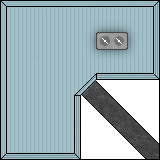
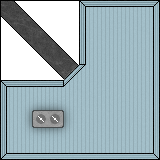
Rewrote building generation, minor tweaks
Determined that World.getEntities does in fact work, so I am trying a new method of generating buildings, and made much progress. Rotated a couple building textures, and cleaned up entity rendering code.

diff --git a/src/main/java/com/bitbucket/computerology/world/towns/Town.java b/src/main/java/com/bitbucket/computerology/world/towns/Town.java
@@ -13,6 +13,7 @@ public class Town {
     
     int population, x, y;
     ArrayList<Building> buildings;
+    
     int[][] distribution;
     
     
@@ -21,6 +22,10 @@ public class Town {
         this.x = sector_x;
         this.y = sector_y;
     }
+    
+    public static int blockSizeChunks() { return 16; }
+    
+    public int[][] buildingDistribution() { return distribution; }
     
     public void update() {}
     
@@ -48,9 +53,9 @@ public class Town {
         }
         
         //divide the sector with roads, creating city blocks to place buildings in
-        for (int i = 1; i <= 3; i++) {
-            this.placeRoadSegment(i*16, 2, Sector.sizeChunks()-2, 2);
-            this.placeRoadSegment(2, 1+(i*16), Sector.sizeChunks()-2, 1);
+        for (int i = 1; i < (Sector.sizeChunks()/blockSizeChunks()); i++) {
+            this.placeRoadSegment(i*blockSizeChunks(), 2, Sector.sizeChunks()-2, 2);
+            this.placeRoadSegment(2, 1+(i*blockSizeChunks()), Sector.sizeChunks()-2, 1);
         }
         
         //place the buildings
@@ -66,37 +71,71 @@ public class Town {
      * Places buildings randomly within the city block. UNFINISHED.
      */
     private void randomizeBlock(int bx, int by) {
-        int[] origin = {2 + (16*bx), 2 + (16*by)};
+        System.out.println("Generating buildings for block "+bx+", "+by);
+        //world coords for the block (relative to the sector)
+        int[] b_wc = {Chunk.sizePixels()*((blockSizeChunks()*bx)+2), 
+            Chunk.sizePixels()*((blockSizeChunks()*by)+2)};
         String[] res_names = {"House 1"}, ind_names = {"Factory 1"};
+        String[] names = distribution[b_wc[0]/Chunk.sizePixels()][b_wc[1]/Chunk.sizePixels()] == Building.INDUSTRIAL ? ind_names : res_names; 
         Sector p = getParent();
-        for (int i = 0; i < 16; i++) {
-            int[][] spawns = 
-                {{origin[0]+i, origin[1]}, {origin[0]+14, origin[1]+i}, {origin[0]+i, origin[1]+14}, {origin[0], origin[1]+i}};
-            for (int r = 0; r < 1; r++) {
-                //determine the world coordinates
-                int wx = p.getWorldCoords()[0]+(spawns[r][0]*Chunk.sizePixels());
-                int wy = p.getWorldCoords()[1]+(spawns[r][1]*Chunk.sizePixels());
-                String[] names = res_names;
-                //String[] names = distribution[spawns[r][0]][spawns[r][1]] == Building.INDUSTRIAL ? ind_names : res_names;
-                String name = names[new Random().nextInt(names.length)];
-                Entity e = Entity.create(name);
-                e.setRotation(r*90);
-                
-                if (r == 0) { wx+=e.getWidth()/2; wy+=e.getHeight()/2; }
-                if (r == 1) { wx-=e.getWidth()/2; wy+=e.getHeight()/2; }
-                if (r == 2) { wx+=e.getWidth()/2; wy-=e.getHeight()/2; }
-                if (r == 3) { wx+=e.getWidth()/2; wy+=e.getHeight()/2; }
-                
-                e.setWorldX(wx);
-                e.setWorldY(wy);
-                
-                int[] params = {wx-(e.getWidth()/2), wy-(e.getHeight()/2), e.getWidth(), e.getHeight()};
-                Entity obstacle = World.getWorld().getEntity(params[0], params[1], params[2], params[3]);
-                System.out.println("First entity at: "+params[0]+", "+params[1]+", "+params[2]+", "+params[3]+": "+obstacle);
-                if (obstacle == null) {
-                    World.getWorld().addEntity(e);
-                }
+        Random r = World.getWorld().rng();
+        //initialized to false
+        boolean cell_used[][] = new boolean[(blockSizeChunks()-2)/4][(blockSizeChunks()-2)/4];
+        
+        //determine the rotation using [i, j]
+        int i = r.nextInt(cell_used.length), j = r.nextInt(cell_used.length);
+        int rot = -1;
+        if (i == 0) rot = 3;
+        if (i == cell_used.length-1) rot = 1;
+        if (j == 0) rot = 0;
+        if (j == cell_used.length-1) rot = 2;
+        
+        System.out.println("Cell chosen: "+i+", "+j);
+        
+        //if the rotation is -1 then an invalid [i,j] was chosen
+        if (rot == -1) return;
+        
+        System.out.println("Rotation: "+rot);
+        
+        //create and rotate an entity, getting its dimensions as well
+        Entity e = Entity.create(names[r.nextInt(names.length)]);
+        e.setRotation(rot*90);
+        int ew = (int)((e.getWidth()/Chunk.sizePixels()))/4;
+        int eh = (e.getHeight()/Chunk.sizePixels())/4;
+        //calculate how far the entity would go out of bounds if placed
+        int w_diff = (i+ew)-cell_used.length, h_diff = (j+eh)-cell_used.length;
+        
+        System.out.println(e);
+        System.out.println("Width: "+ew+", height: "+eh);
+        System.out.println("Overflow: "+w_diff+", "+h_diff);
+        
+        //if out of bounds, shift the cell over
+        if (w_diff > 0) i -= w_diff;
+        if (h_diff > 0) j -= h_diff;
+        
+        //if you shifted too far over, then invalid
+        if (i < 0 || j < 0) return;
+        
+        System.out.println("Cell after shifting: "+i+", "+j);
+        
+        //determine whether the entity will fit (if a cell is used, it will not)
+        boolean clear = true;
+        for (int a = i; a < ew; a++) {
+            for (int b = j; b < eh; b++) {
+                if (a < 0 || a >= cell_used.length
+                        || b < 0 || b >= cell_used.length) continue;
+                if (cell_used[a][b]) { clear = false; break; }
             }
+        }
+        //TODO: mark cells as used
+        
+        System.out.println("Region ["+i+", "+j+", "+ew+", "+eh+"] clear: "+clear);
+        
+        if (clear) {
+            e.setWorldX(p.getWorldCoords()[0]+b_wc[0]+(i*4*Chunk.sizePixels())+(e.getWidth()/2)+(i*Chunk.sizePixels()));
+            e.setWorldY(p.getWorldCoords()[1]+b_wc[1]+(j*4*Chunk.sizePixels())+(e.getHeight()/2)+(j*Chunk.sizePixels()));
+            World.getWorld().addEntity(e);
+            System.out.println("Added entity to "+e.getWorldX()+", "+e.getWorldY());
         }
         
     }

diff --git a/src/main/java/com/bitbucket/computerology/gui/states/GameScreen.java b/src/main/java/com/bitbucket/computerology/gui/states/GameScreen.java
@@ -14,6 +14,8 @@ import com.bitbucket.computerology.world.terrain.Sector;
 import com.bitbucket.computerology.world.World;
 import com.bitbucket.computerology.world.entities.Entity;
 import com.bitbucket.computerology.world.terrain.Chunk;
+import com.bitbucket.computerology.world.towns.Building;
+import com.bitbucket.computerology.world.towns.Town;
 import java.util.ArrayList;
 import org.lwjgl.input.Mouse;
 import org.lwjgl.opengl.Display;
@@ -172,15 +174,6 @@ public class GameScreen extends BasicGameState {
             Entity en = World.getWorld().getEntity(wc[0], wc[1]);
             g.drawString("Entity at mouse: "+(en != null ? en.toString() : "null"), 5, 132);
             
-            g.setColor(Color.blue);
-            g.drawRect(x-200, y-200, 200, 200);
-            ArrayList<Entity> moused_entities = World.getWorld().getEntities(wc[0]-200, wc[1]-200, 200, 200);
-            for (Entity e: moused_entities) {
-                g.setColor(Color.green);
-                int[] osc = World.getWorld().getOnscreenCoords(e.getWorldX(), e.getWorldY());
-                g.drawRect(osc[0]-e.getWidth()/2, osc[1]-e.getHeight()/2, e.getWidth(), e.getHeight());
-            }
-            
             if (c != null) {
                 g.drawString("Entities in chunk: ", x+20, y);
                 int i = 0;
@@ -203,6 +196,29 @@ public class GameScreen extends BasicGameState {
                 g.drawRect(s.onScreenCoords()[0], s.onScreenCoords()[1], 
                         Sector.onScreenSize(), Sector.onScreenSize());
                 
+            }
+            
+            g.setColor(Color.blue);
+            g.drawRect(x-200, y-200, 200, 200);
+            ArrayList<Entity> moused_entities = World.getWorld().getEntities(wc[0]-200, wc[1]-200, 200, 200);
+            for (Entity e: moused_entities) {
+                g.setColor(Color.green);
+                int[] osc = World.getWorld().getOnscreenCoords(e.getWorldX(), e.getWorldY());
+                int[] dims = {osc[0]-e.getWidth()/2, osc[1]-e.getHeight()/2, e.getWidth(), e.getHeight()};
+                g.drawRect(dims[0], dims[1], dims[2], dims[3]);
+            }
+            
+            Town t = World.getWorld().getTown(sc[0], sc[1]);
+            if (t != null) {
+                int[][] dist = t.buildingDistribution();
+                for (int a = 0; a < dist.length; a++) {
+                    for (int b = 0; b < dist.length; b++) {
+                        g.setColor(Building.COLORS[dist[a][b]]);
+                        int twc[] = World.getWorld().getWorldCoords(t.getSectorCoordinates()[0], t.getSectorCoordinates()[1]);
+                        int tosc[] = World.getWorld().getOnscreenCoords(twc[0], twc[1]);
+                        g.fillRect(tosc[0], tosc[1], 1, 1);
+                    }
+                }
             }
             
             

diff --git a/src/main/java/com/bitbucket/computerology/world/World.java b/src/main/java/com/bitbucket/computerology/world/World.java
@@ -175,11 +175,8 @@ public class World {
     public ArrayList<Entity> getEntities(int x, int y, int w, int h) {
         ArrayList<Entity> list = new ArrayList<Entity>();
         ArrayList<Chunk> chunks = getChunks(x, y, w, h);
-        System.out.println("Chunks at ["+w+", "+y+", "+w+", "+h+"]: "+chunks.size());
         for (Chunk c: chunks) {
             for (Entity e: c.getEntities()) {
-                System.out.println("Chunk "+c+" has "+c.getEntities().size()+" entities!");
-                System.out.println("Entity e")+
                 if (!list.contains(e) && e.intersects(x, y, w, h)) list.add(e);
             }
         }
@@ -192,10 +189,8 @@ public class World {
         if (s != null) {if (add) s.addEntity(e); else s.removeEntity(e);}
         ArrayList<Chunk> chunks = getChunks(e.getWorldX()-e.getWidth()/2,
                 e.getWorldY()-e.getHeight()/2,e.getWidth(), e.getHeight());
-        //System.out.println(e+" dimensions: "+e.getWidth()+", "+e.getHeight());
         boolean success = true;
         for (Chunk c: chunks) {
-            //System.out.println(add ? "Adding "+e+" to "+c : "Removing "+e+" from "+c);
             if (add) { if (!c.addEntity(e)) success = false; }
             if (!add) c.removeEntity(e);
         }
@@ -626,11 +621,7 @@ public class World {
                 for (int b = 0; b < Chunk.BIOME_COUNT; b++) {
                     if (biome_distribution[i][j][b] == 0) continue;
                     if (biome_distribution[i][j][b] == Sector.sizeChunks()*Sector.sizeChunks()) { 
-                        int[] wcm = getWorldCoordsFromMap(i*Sector.sizeChunks(), j*Sector.sizeChunks());
-                        int sc[] = getSectorCoords(wcm[0], wcm[1]);
-                        System.out.println("Sector @ map["+i+", "+j+"] is empty!");
                         map[i][j] = true;
-                        //if (b != Chunk.WATER) available_town_sectors.add(new int[]{i, j}); 
                         break; 
                     }
                     if (biome_distribution[i][j][b] != Sector.sizeChunks()*Sector.sizeChunks()) break;
@@ -672,7 +663,6 @@ public class World {
                 //create a new town instance
                 Town t = new Town(sc[0], sc[1]);
                 towns.add(t);
-                System.out.println("Sector "+sc[0]+", "+sc[1]+"(mc "+chosen[0]+", "+chosen[1]+") is a town!");
                 valid_locations.remove(chosen);
                 if (!chosen_spawn && chosen[0] > 0) { //place the starting sector next to the first town
                     if (empty_sector_map[chosen[0]][chosen[1]]) {

diff --git a/src/main/java/com/bitbucket/computerology/world/entities/systems/Render.java b/src/main/java/com/bitbucket/computerology/world/entities/systems/Render.java
@@ -2,7 +2,6 @@ package com.bitbucket.computerology.world.entities.systems;
 
 import com.bitbucket.computerology.world.Camera;
 import com.bitbucket.computerology.world.World;
-import com.bitbucket.computerology.world.entities.Component;
 import com.bitbucket.computerology.world.entities.ComponentSystem;
 import com.bitbucket.computerology.world.entities.components.*;
 import org.newdawn.slick.Graphics;
@@ -15,14 +14,12 @@ public class Render extends ComponentSystem {
     }
     
     public void draw(Graphics g) {
-        Component tc = getParent().getComponent("Texture"), tp = getParent().getComponent("Position");
-        if (tc == null || tp == null) return;
-        Texture t = (Texture)tc; Position p = (Position)tp;
+        Texture t = getParent().getTexture(); Position p = getParent().getPosition();
         if (t.getTexture() == null) return;
         int[] c = World.getWorld().getOnscreenCoords(p.getWorldX(), p.getWorldY());
         Image img = t.getTexture().getScaledCopy(Camera.getZoom());
         img.setRotation(p.getRotation());
-        g.drawImage(t.getTexture().getScaledCopy(Camera.getZoom()), c[0]-img.getWidth()/2, c[1]-img.getHeight()/2);
+        g.drawImage(img, c[0]-img.getWidth()/2, c[1]-img.getHeight()/2);
     }
     
 }

diff --git a/src/main/java/com/bitbucket/computerology/world/entities/systems/Movement.java b/src/main/java/com/bitbucket/computerology/world/entities/systems/Movement.java
@@ -36,6 +36,10 @@ public class Movement extends ComponentSystem {
             Math.floor(Math.min(p.getWorldY()-(p.getHeight()/2), p.getWorldY()-(p.getHeight()/2)+dy))};
         double[] B = {Math.ceil(Math.max(p.getWorldX()+(p.getWidth()/2), p.getWorldX()+(p.getWidth()/2)+dx)), 
             Math.ceil(Math.max(p.getWorldY()+(p.getHeight()/2), p.getWorldY()+(p.getHeight()/2)+dy))};
+        //essentially just incrementing the hitbox by 4px each time until it reaches the destination
+        //and if it finds any collisions, revert to the last increment that had no collision
+        //it is very crude, but at least I have proper rotating hitboxes, so I can easily come back
+        //and implement a better solution when the rest of the game is done
         if (hitbox != null) {
             ArrayList<Entity> entities = 
                     World.getWorld().getEntities((int)A[0], (int)A[1], (int)(B[0]-A[0]), (int)(B[1]-A[1]));

diff --git a/src/main/java/com/bitbucket/computerology/world/towns/Building.java b/src/main/java/com/bitbucket/computerology/world/towns/Building.java
@@ -1,10 +1,12 @@
 package com.bitbucket.computerology.world.towns;
 
 import com.bitbucket.computerology.world.entities.Entity;
+import org.newdawn.slick.Color;
 
 public class Building {
     
     public static int RESIDENTIAL = 0, COMMERCIAL = 1, INDUSTRIAL = 2;
+    public static Color[] COLORS = {Color.green, Color.cyan, Color.lightGray};
     
     int[] demand_multipliers, amounts_recieved;
     Town parent_town; Entity parent;

diff --git a/src/main/java/com/bitbucket/computerology/world/entities/components/Position.java b/src/main/java/com/bitbucket/computerology/world/entities/components/Position.java
@@ -50,6 +50,11 @@ public class Position extends Component {
     public void addWorldY(double y) { 
         this.setWorldY(getWorldY()+y);
     }
+    
+    /**
+     * Sets the entity's rotation, in degrees.
+     * Refreshes the entity hitbox.
+     */
     public void setRotation(int r) { 
         if (r != rotation) World.getWorld().refreshEntity(getParent(), false);
         this.rotation = r % 360;
